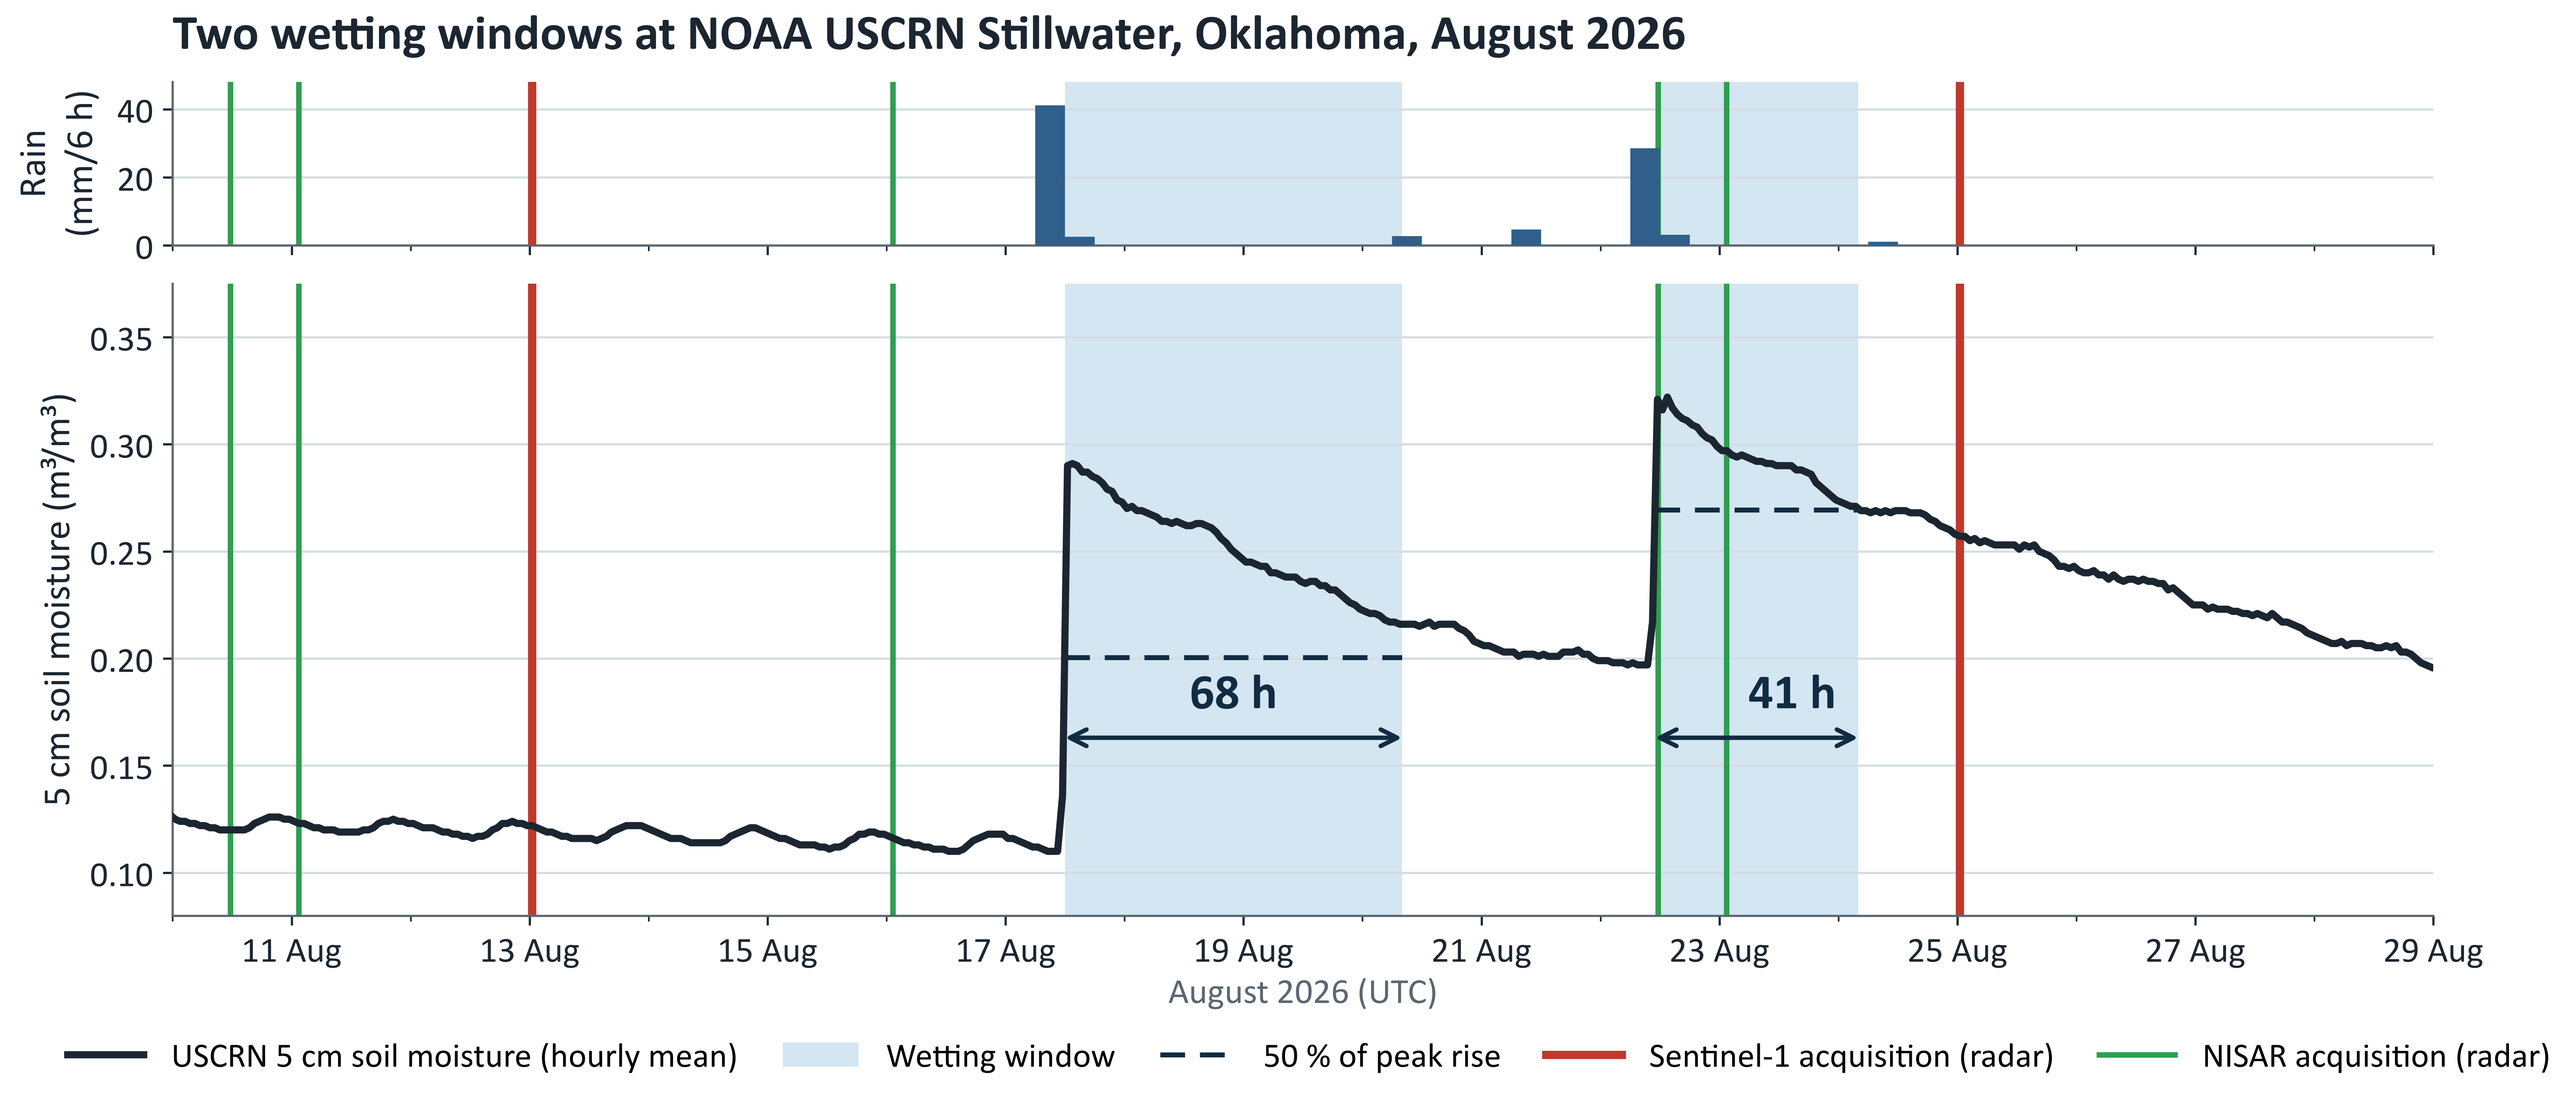
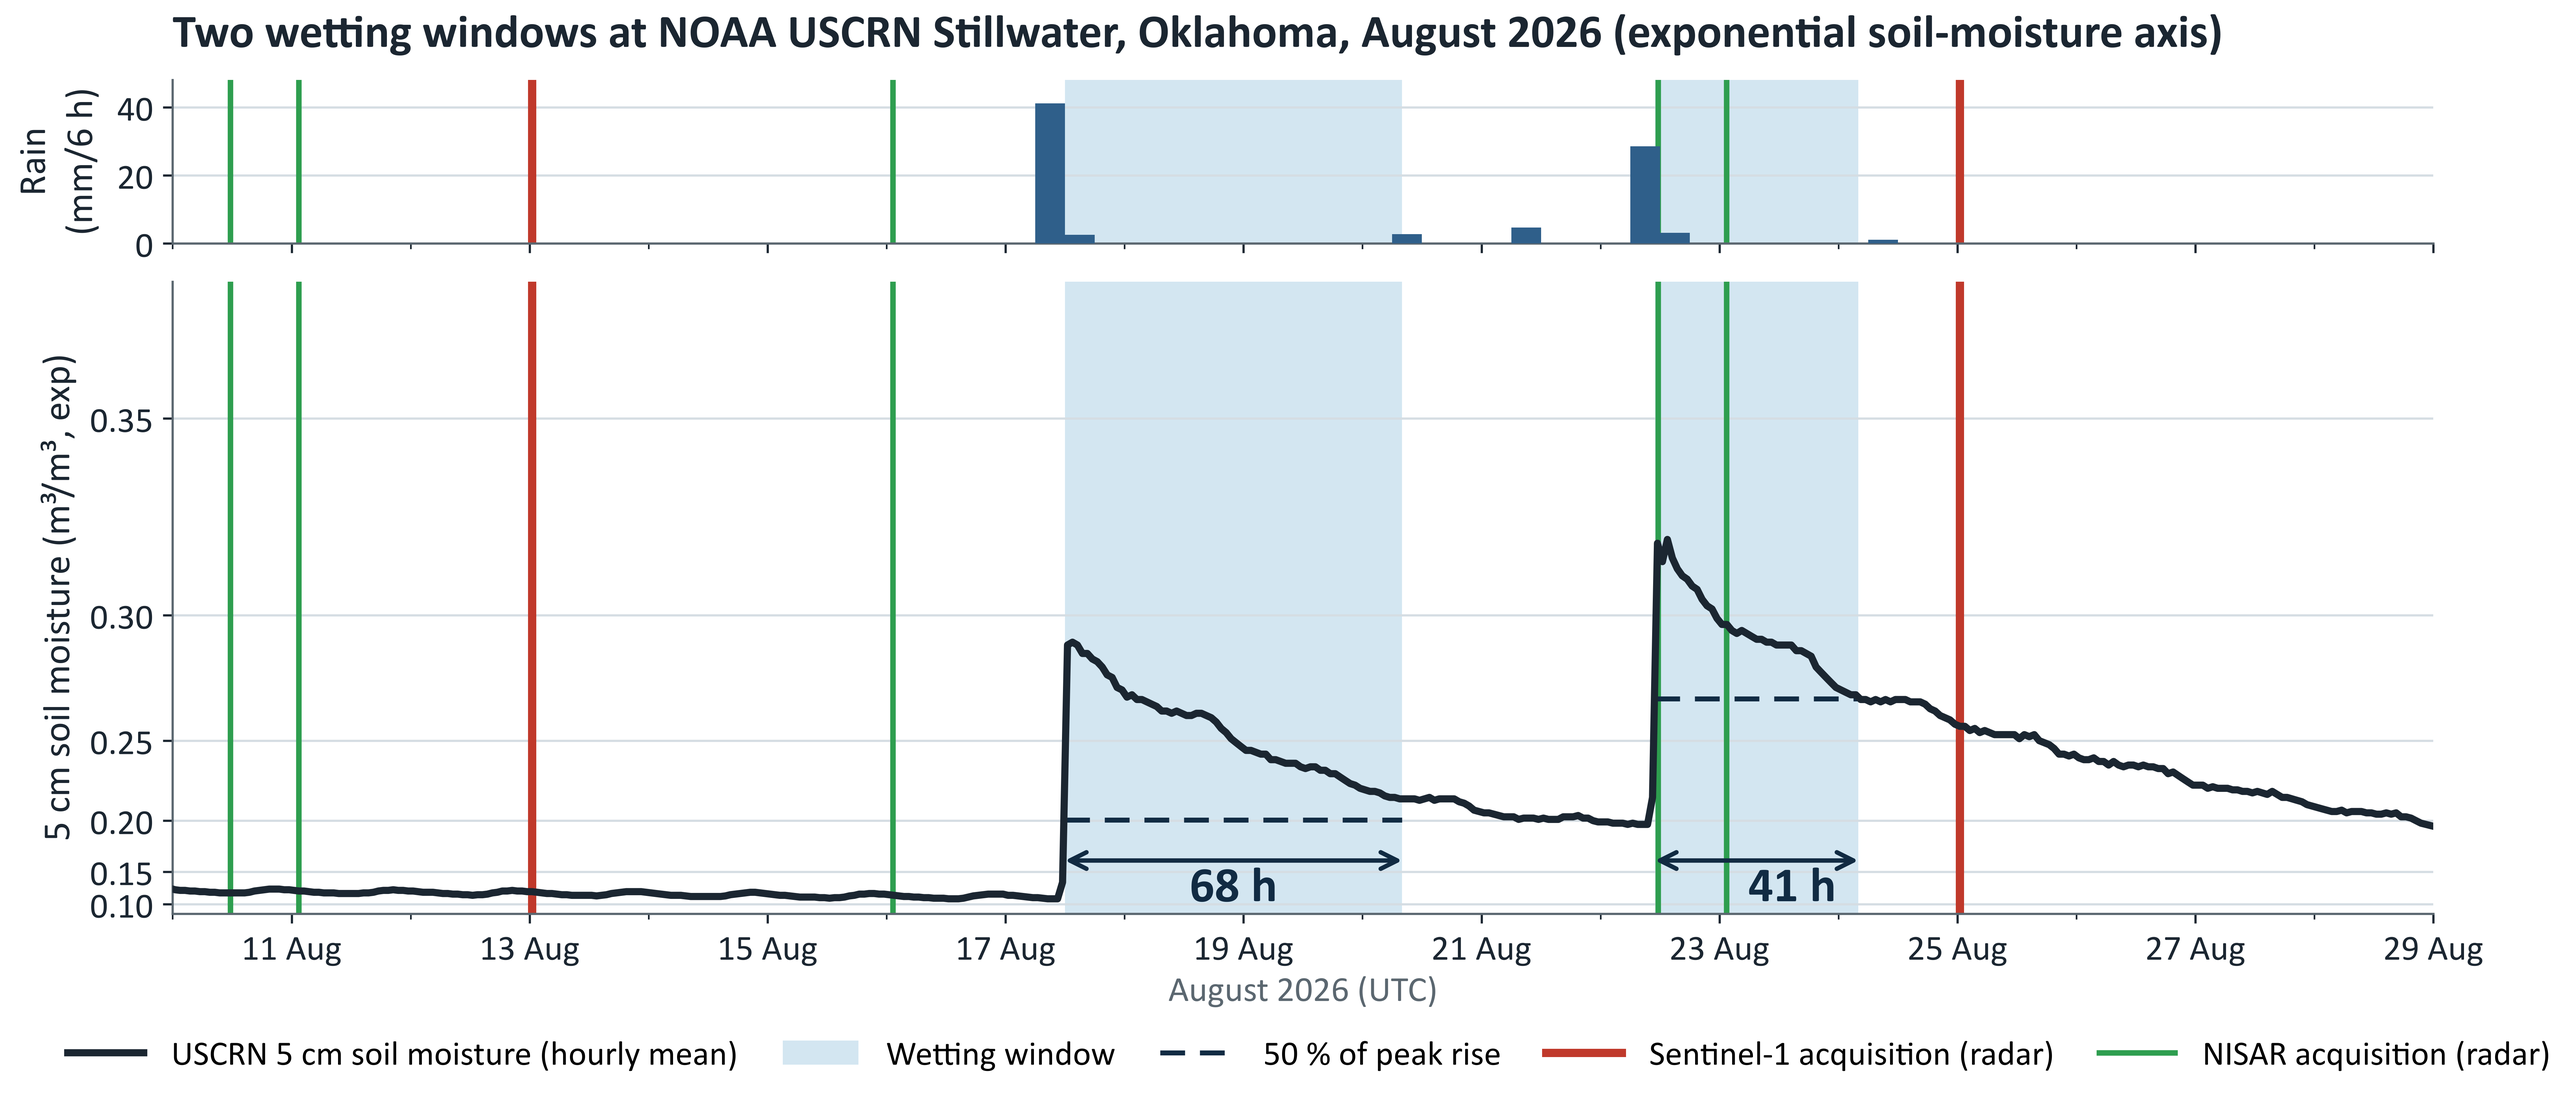
Draw the slide 5 wetting-window figure with an exponential soil-moisture axis
The exponential axis stretches the wet peaks and compresses the dry baseline; the README caption and figure manifest say so.

diff --git a/figures/fig_wetting_window.py b/figures/fig_wetting_window.py
@@ -1,4 +1,5 @@
 """Slide 5: a real wetting episode between satellite acquisitions (Stillwater 2 W, OK, 10-29 Aug 2026).
+The slide version draws 5 cm soil moisture on an exponential axis (EXP_K) to stretch the wet peaks.
 
 Events are read from data/processed/events_real.csv and re-derived with common.detect_events (asserted identical);
 acquisition times are read from the processed files, not typed in.
@@ -26,6 +27,7 @@ import matplotlib.pyplot as plt
 import matplotlib.dates as mdates
 from matplotlib.lines import Line2D
 from matplotlib.patches import Patch
+from matplotlib.ticker import FixedLocator, FuncFormatter, NullLocator
 from common import PROC, load_uscrn, rd, season_series, detect_events, to_hours, captured, FRAC, A_MIN
 
 # deck palette
@@ -37,6 +39,7 @@ plt.rcParams.update({"font.family": "Calibri", "font.size": 15, "axes.edgecolor"
 WBAN, LON = 53926, -97.09
 T0, T1 = pd.Timestamp("2026-08-10", tz="UTC"), pd.Timestamp("2026-08-29", tz="UTC")
 H, HALF = pd.Timedelta(hours=1), pd.Timedelta(minutes=30)
+EXP_K = 9.0   # slide version: soil-moisture axis is exponential, displayed coordinate = exp(EXP_K * soil moisture)
 
 # ------------------------------------------------------------------ data
 u = load_uscrn()
@@ -159,8 +162,12 @@ def draw(ver):
     axr.set_ylim(0, 48); axr.set_yticks([0, 20, 40])
     axr.tick_params(labelbottom=False, labelsize=13)
     axs.plot(raw.index - HALF, raw.sm5, color=INK, lw=2.6, zorder=5)
-    axs.set_ylabel("5 cm soil moisture (m³/m³)", fontsize=14); axs.set_ylim(0.08, 0.375)
-    axs.set_yticks([0.10, 0.15, 0.20, 0.25, 0.30, 0.35]); axs.tick_params(labelsize=13)
+    if not full:   # exponential axis: stretches the wet peaks, compresses the dry baseline
+        axs.set_yscale("function", functions=(lambda y: np.exp(EXP_K * y), lambda z: np.log(np.clip(z, 1e-9, None)) / EXP_K))
+    axs.set_ylabel("5 cm soil moisture (m³/m³)" if full else "5 cm soil moisture (m³/m³, exp)", fontsize=14)
+    axs.set_ylim(0.08, 0.375)
+    axs.yaxis.set_major_locator(FixedLocator([0.10, 0.15, 0.20, 0.25, 0.30, 0.35])); axs.yaxis.set_minor_locator(NullLocator())
+    axs.yaxis.set_major_formatter(FuncFormatter(lambda v, _: f"{v:.2f}")); axs.tick_params(labelsize=13)
     for ax_ in (axr, axs):
         ax_.grid(axis="y", color=LIGHT, lw=0.8); ax_.set_axisbelow(True)
 
@@ -210,8 +217,8 @@ def draw(ver):
         ni_in = inview["NISAR"][(inview["NISAR"] >= a) & (inview["NISAR"] < b)]
         if not full and len(ni_in):   # slide: centre the label between the last NISAR line and the window end, no box
             m = ni_in.iloc[-1] + (b - ni_in.iloc[-1]) / 2
-        axs.text(m, yb + 0.008, f"{e.window_h:.0f} h", ha="center", va="bottom", fontsize=19 if full else 18, color=NAVY,
-                 fontweight="bold", bbox=pbox if full else None, zorder=8)
+        axs.text(m, yb + 0.008 if full else yb - 0.004, f"{e.window_h:.0f} h", ha="center", va="bottom" if full else "top",
+                 fontsize=19 if full else 18, color=NAVY, fontweight="bold", bbox=pbox if full else None, zorder=8)
     if full:
         axs.text(mid1, yb - 0.005, "No radar acquisition\nduring window", ha="center", va="top", fontsize=13.5, color=RED,
                  fontweight="bold", linespacing=1.0, zorder=8)
@@ -256,7 +263,8 @@ def draw(ver):
                Line2D([], [], color=NAVY, marker="|", ls="none", ms=11, mew=2.2, label="SMAP retrieval (9 km radiometer)")]
     if not full:
         handles = [h for h in handles if h.get_label() not in ("Pre-storm baseline", "SMAP retrieval (9 km radiometer)")]
-        axr.set_title("Two wetting windows at NOAA USCRN Stillwater, Oklahoma, August 2026", loc="left", fontsize=18,
+        axr.set_title("Two wetting windows at NOAA USCRN Stillwater, Oklahoma, August 2026 (exponential soil-moisture axis)",
+                      loc="left", fontsize=17,
                       color=INK, fontweight="bold", pad=12)
     fig.legend(handles=handles, loc="lower center", ncol=4 if full else 5, fontsize=12.5, frameon=False, bbox_to_anchor=(0.53, -0.01),
                handlelength=2.2, columnspacing=1.3)

diff --git a/figures/build_manifest.py b/figures/build_manifest.py
@@ -114,7 +114,7 @@ extra = pd.DataFrame([
      "grey = quality-flagged or no data", "—", "USCRN probe 0.29–0.30 m³/m³ during the passes", "deck slide 9"),
     ("slide05_wetting_windows.png", "Two wetting windows at USCRN Stillwater, Aug 2026", "OBSERVED",
      "figures/fig_wetting_window.py", "uscrn_hourly.pkl, events_real.csv, acq_s1.csv, acq_nisar.csv", "1 station, 2 events",
-     "looks inside windows", "10–29 Aug 2026", "hour-end labels; windows as code/common.py detect_events", "—",
+     "looks inside windows", "10–29 Aug 2026", "hour-end labels; windows as code/common.py detect_events; soil-moisture axis exponential", "—",
      "68 h and 41 h windows; Sentinel-1 looked outside both; NISAR inside the second", "deck slide 5"),
     ("slide14_need_maps_looks_events.png", "Days between Sentinel-1 looks; wetting events per season", "OBSERVED",
      "figures/fig_need_maps_split.py; code/10_gee_need_maps.py", "need_grid.npz, need_stations.csv, events.csv, acq_s1.csv",

diff --git a/README.md b/README.md
@@ -12,8 +12,8 @@ one orbit, raises this to **81.5 %** in simulation.
 window. A *detection* is a captured look whose data show the wetting. This work measures capture.
 
 ![Two wetting windows at Stillwater, Oklahoma](figures/slide05_wetting_windows.png)
-*Two wetting events at USCRN Stillwater, Oklahoma, August 2026. No field-scale radar looked during the first 68-hour
-window; NISAR looked during the second.*
+*Two wetting events at USCRN Stillwater, Oklahoma, August 2026 (soil moisture on an exponential axis, which stretches
+the wet peaks). No field-scale radar looked during the first 68-hour window; NISAR looked during the second.*
 
 ## Key results
 
